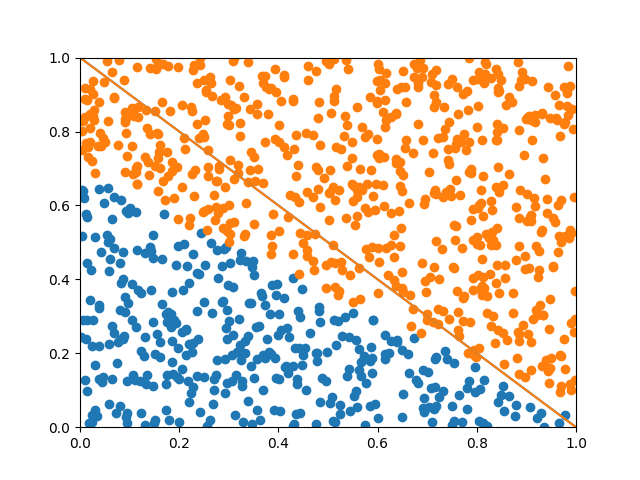
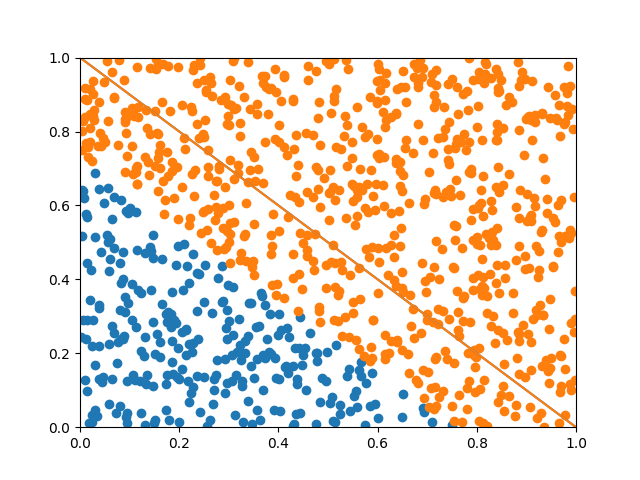
update the exploration figure

Changed region(s): [[0.3125, 0.4688, 0.9062, 0.9062], [0.25, 0.4375, 0.2812, 0.4688], [0.125, 0.3438, 0.1562, 0.375]]

diff --git a/src/main.py b/src/main.py
@@ -7,7 +7,7 @@ import os
 
 test_size = 0.1
 batch_size = 20
-train_steps = 10000
+train_steps = 20000
 output_step = 1000
 
 samples = 1000
@@ -66,10 +66,10 @@ with tf.name_scope('train'):
     cross_entropy_with_weight_decay=tf.add(cross_entropy,theta_1*l2_loss)
 
     # train_op=tf.train.AdamOptimizer(1e-4).minimize(cross_entropy_with_weight_decay)
-    train_op=tf.train.MomentumOptimizer(1e-4, 0.9).minimize(cross_entropy_with_weight_decay)
+    # train_op=tf.train.MomentumOptimizer(1e-4, 0.9).minimize(cross_entropy_with_weight_decay)
     # train_op = tf.train.RMSPropOptimizer(1e-4).minimize(cross_entropy_with_weight_decay)
-    # train_op = tf.train.GradientDescentOptimizer(
-    # 	2e-4).minimize(cross_entropy_with_weight_decay)
+    train_op = tf.train.GradientDescentOptimizer(
+    	2e-4).minimize(cross_entropy_with_weight_decay)
     # train_op = tf.train.GradientDescentOptimizer(5e-4).minimize(hinge_loss)
     # train_op = tf.train.GradientDescentOptimizer(2e-4).minimize(mse)
     # train_op = tf.train.GradientDescentOptimizer(2e-4).minimize(abd)

diff --git a/src/model_graph.py b/src/model_graph.py
@@ -64,11 +64,11 @@ def model_graph(x, y_):
 	    b_fc2=bias_variable([2000])
 	    h_fc1=tflearn.relu(tf.matmul(h_fc1,w_fc2)+b_fc2)
 
-	with tf.name_scope('fc_3'):
-	    #Add the third densely connected layer
-	    w_fc3=weight_variable([2000,2000])
-	    b_fc3=bias_variable([2000])
-	    h_fc1=tflearn.relu(tf.matmul(h_fc1,w_fc3)+b_fc3)
+	# with tf.name_scope('fc_3'):
+	#     #Add the third densely connected layer
+	#     w_fc3=weight_variable([2000,2000])
+	#     b_fc3=bias_variable([2000])
+	#     h_fc1=tflearn.relu(tf.matmul(h_fc1,w_fc3)+b_fc3)
 
 	# with tf.name_scope('fc_4'):
 	#     #Add the third densely connected layer

diff --git a/src/utils.py b/src/utils.py
@@ -54,7 +54,7 @@ def play_iris():
 
 def generate_lin_sep_blobs(n_samples, random_state):
 	samples = make_blobs(n_samples=n_samples, n_features=2,
-		centers=[(0.1, 0.2), (0.5, 0.8)], cluster_std=0.1,
+		centers=[(0.2, 0.2), (0.8, 0.8)], cluster_std=0.1,
 		random_state=random_state)
 	return samples[0], samples[1]
 
